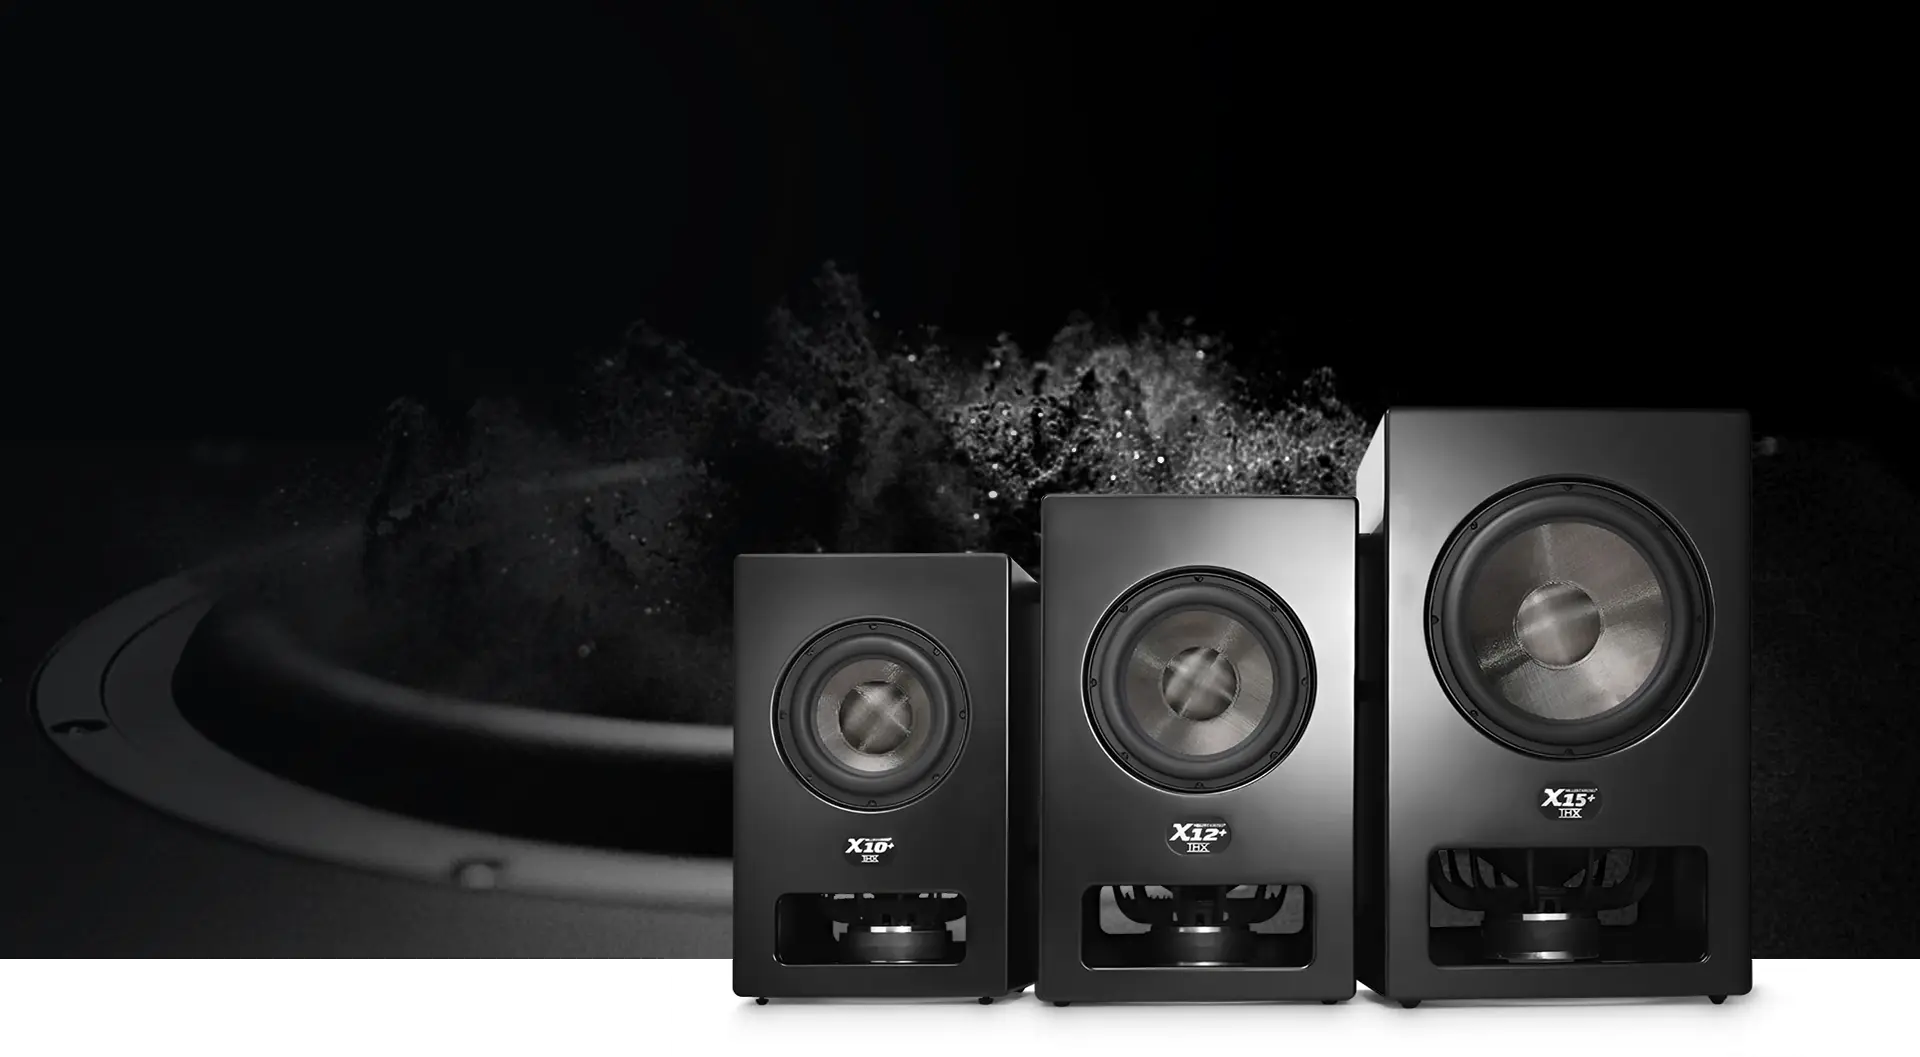
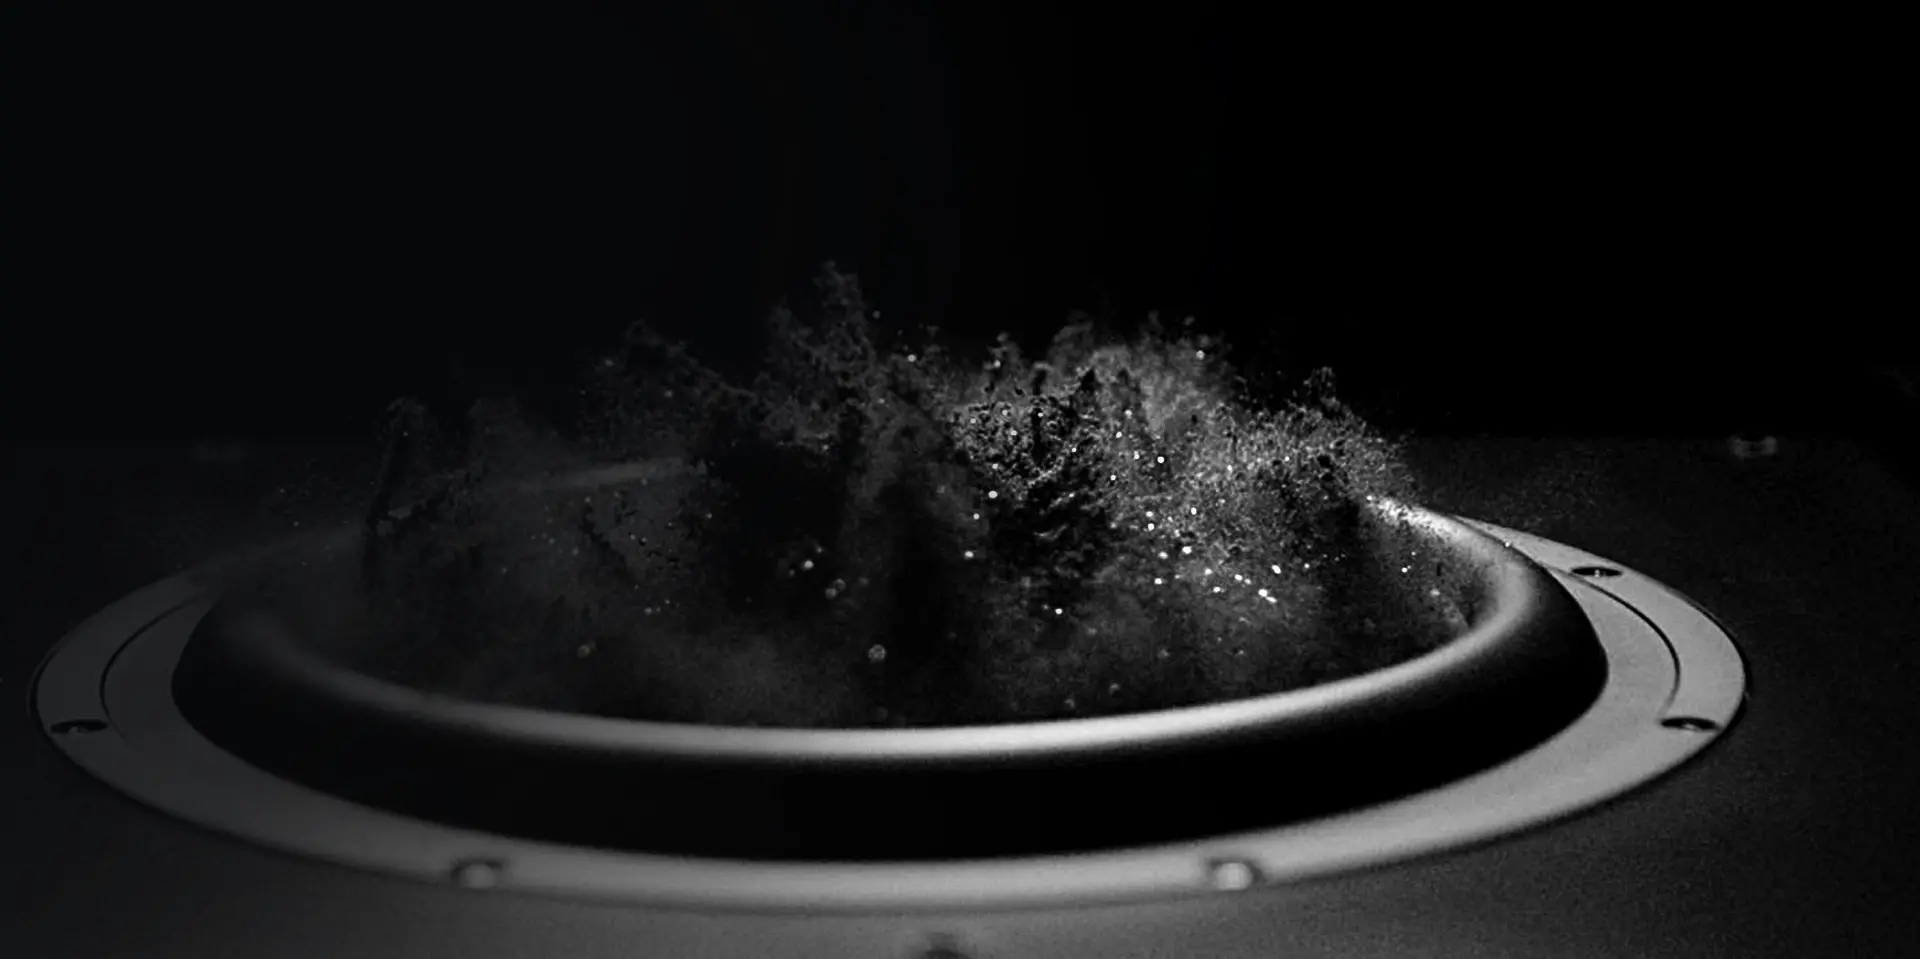
исправлен блок баннера

diff --git a/style/banner.css b/style/banner.css
@@ -1,10 +1,12 @@
 .banner {
     color: var(--color-white);
     padding-top: 130px;
+    box-sizing: border-box;
     background-image: url(./../images/banner.webp);
-    height: 928px;
+    height: 960px;
     background-repeat: no-repeat;
     background-position: center;
+    position: relative;
 }
 
 .banner>div>h3 {
@@ -18,13 +20,23 @@
     margin: 40px 0 70px 0;
 }
 
+.banner__monitor-big {
+    position: absolute;
+    width: 1029px;
+    bottom: -87px;
+    right: calc(50% - 796px);
+}
+
+
 @media screen and (max-width: 1600px) {
     .banner>div>h3 {
         font-size: 120px;
     }
 
-    .banner {
-        background-position: -287px 0px;
+    .banner__monitor-big {
+        width: 993px;
+        bottom: -65px;
+        right: calc(50% - 684px);
     }
 }
 
@@ -40,8 +52,7 @@
     .banner {
         padding-top: 110px;
         background-image: url(./../images/banner1400.webp);
-        height: 640px;
-        background-position: 0 0;
+        height: 700px;
     }
 
     .banner>div>p {
@@ -53,14 +64,20 @@
     .banner>div>h3 {
         font-size: 84px;
     }
+
+    .banner__monitor-big {
+        width: 667px;
+        bottom: -66px;
+        right: calc(50% - 587px);
+
+    }
 }
 
 
 @media screen and (max-width: 1300px) {
     .banner {
         padding-top: 75px;
-        background-image: url(./../images/banner1300.webp);
-        height: 481px;
+        height: 556px;
     }
 
     .banner>div>h3 {
@@ -71,161 +88,95 @@
         max-width: 300px;
         margin: 35px 0 50px 0;
     }
-}
 
-@media screen and (max-width: 1260px) {
-    .banner {
-        background-position: -35px 0;
+    .banner__monitor-big {
+        bottom: -55px;
+        right: calc(50% - 605px);
     }
 }
 
-@media screen and (max-width: 1220px) {
-    .banner {
-        background-position: -77px 0;
+
+@media screen and (max-width: 1230px) {
+    .banner__monitor-big {
+        width: 580px;
+        bottom: -40px;
+        right: calc(50% - 470px);
     }
 }
 
-@media screen and (max-width: 1180px) {
-    .banner {
-        background-position: -116px 0;
+@media screen and (max-width: 1000px) {
+    .banner__monitor-big {
+        width: 529px;
+        right: calc(50% - 406px);
     }
 }
 
-@media screen and (max-width:1100px) {
-    .banner {
-        background-position: -210px 0;
+@media screen and (max-width: 830px) {
+    .banner__monitor-big {
+        width: 427px;
+        right: calc(50% - 357px);
     }
 }
 
-@media screen and (max-width: 1024px) {
-    .banner {
-        background-position: -239px 0;
+@media screen and (max-width: 768px) {
+    .banner__monitor-big {
+        width: 390px;
+        right: calc(50% - 337px);
     }
 }
 
-@media screen and (max-width:1000px) {
+
+
+@media screen and (max-width: 680px) {
     .banner {
-        background-position: -310px 0;
+        padding-top: 50px;
+        background-image: url(./../images/banner680.webp);
+        height: 765px;
+    }
+
+    .banner__monitor-big {
+        width: 340px;
+        bottom: -16px;
+        margin-left: auto;
+        margin-right: auto;
+        left: 0;
+        right: 0;
     }
 }
 
 
 @media screen and (max-width: 600px) {
+    .banner {
+        height: 650px;
+    }
+
     .banner>div>h3 {
         font-size: 48px;
+        line-height: 1;
     }
 
     .banner>div>p {
         max-width: 100%;
         margin: 35px 0 35px 0;
+        line-height: 1.5;
     }
 }
 
 
 
-@media screen and (max-width: 430px) {
-    .banner {
-        padding-top: 50px;
-        background-image: url(./../images/banner-430.webp);
-        height: 700px;
-        background-position: 0 -153px;
-        background-size: 100%;
-    }
-}
-
-/*
-@media screen and (max-width: 425px) {
-    .banner {
-        padding-top: 50px;
-        background-image: url(./../images/banner-425.webp);
-        height: 660px;
-        background-position: 0 -161px;
-    }
-}
-*/
-
-@media screen and (max-width: 414px) {
-    .banner {
-        height: 670px;
-    }
-}
-
-
-@media screen and (max-width: 410px) {
-    .banner {
-        height: 734px;
-        background-position: 0px -75px;
-    }
-}
-
-@media screen and (max-width: 400px) {
+@media screen and (max-width: 500px) {
     .banner {
         height: 710px;
     }
-}
 
-
-@media screen and (max-width: 390px) {
-    .banner {
-        height: 725px;
-        background-position: 0px -38px
-    }
-
-    .banner>div>p {
-        margin: 25px 0 30px 0;
+    .banner__monitor-big {
+        width: 100%;
     }
 }
 
-
-@media screen and (max-width: 380px) {
-    .banner {
-        height: 710px;
-    }
-}
-
-@media screen and (max-width: 375px) {
-    .banner {
-        background-position: 0px -22px
-    }
-}
-
-@media screen and (max-width: 370px) {
-    .banner {
-        height: 726px;
-        background-position: 0px 0px;
-    }
-}
-
-@media screen and (max-width: 360px) {
-    .banner {
-        height: 713px;
-    }
-}
-
-
-@media screen and (max-width: 350px) {
-    .banner {
-        background-image: url(./../images/banner-350.webp);
-        height: 686px;
-    }
-
-    .banner>div>p {
-        margin: 20px 0 10px 0;
-    }
-}
 
 
 @media screen and (max-width: 340px) {
-    .banner {
-        height: 664px;
-    }
-}
-
-@media screen and (max-width: 330px) {
-    .banner {
-        height: 640px;
-    }
-
     .banner>div>h3 {
         font-size: 45px;
     }

diff --git a/index.html b/index.html
@@ -400,6 +400,11 @@
         </p>
         <button class="red-btn">Подробнее</button>
       </div>
+      <img
+        class="banner__monitor-big"
+        src="./images/monitors.webp"
+        alt="монитор"
+      />
     </section>
 
     <section class="form">
@@ -560,21 +565,6 @@
   <script src="https://cdn.jsdelivr.net/npm/swiper@11/swiper-bundle.min.js"></script>
   <script type="module" src="./js/sliders.js"></script>
   <script type="module" src="./js/telMask.js"></script>
-  <!--
-  <script>
-    function toggleBlock(blockId) {
-      const block = document.getElementById(blockId);
-
-      if (block.classList.contains("show")) {
-        block.classList.remove("show");
-        block.nextElementSibling.innerHTML = `Читать полностью <span class="readAll"></span>`;
-      } else {
-        block.classList.add("show");
-        block.nextElementSibling.innerHTML = `Свернуть <span class="readAll-rotate"></span>`;
-      }
-    }
-  </script>-->
-
   <script type="module" src="./js/metrika.js"></script>
 
   <script>

diff --git a/style/form.css b/style/form.css
@@ -1,3 +1,7 @@
+.form {
+    margin-top: 175px;
+}
+
 .from__wrap>h4>span {
     font-size: 30px;
     font-weight: 500;
@@ -136,6 +140,11 @@
     }
 }
 
+@media screen and (max-width: 1400px) {
+    .form {
+        margin-top: 135px;
+    }
+}
 
 @media screen and (max-width: 1300px) {
     .form {
@@ -218,6 +227,10 @@
 
 
 @media screen and (max-width: 800px) {
+    .form {
+        margin-top: 55px;
+    }
+
     .form__block {
         display: flex;
         justify-content: space-between;

diff --git a/MPS1620P.html b/MPS1620P.html
@@ -199,7 +199,7 @@
           <p class="font-36 spec-bold">Разрешение</p>
           <ul class="specifications__list">
             <li>
-              <div>Размеры ВxШxГ::</div>
+              <div>Размеры ВxШxГ:</div>
               <div>12,6 x 8,3 x 11,6” / 321 x 213 x 297 мм</div>
             </li>
             <li>
@@ -431,6 +431,7 @@
     },
     pagination: {
       el: ".swiper-pagination",
+      clickable: true,
     },
   });
 </script>
